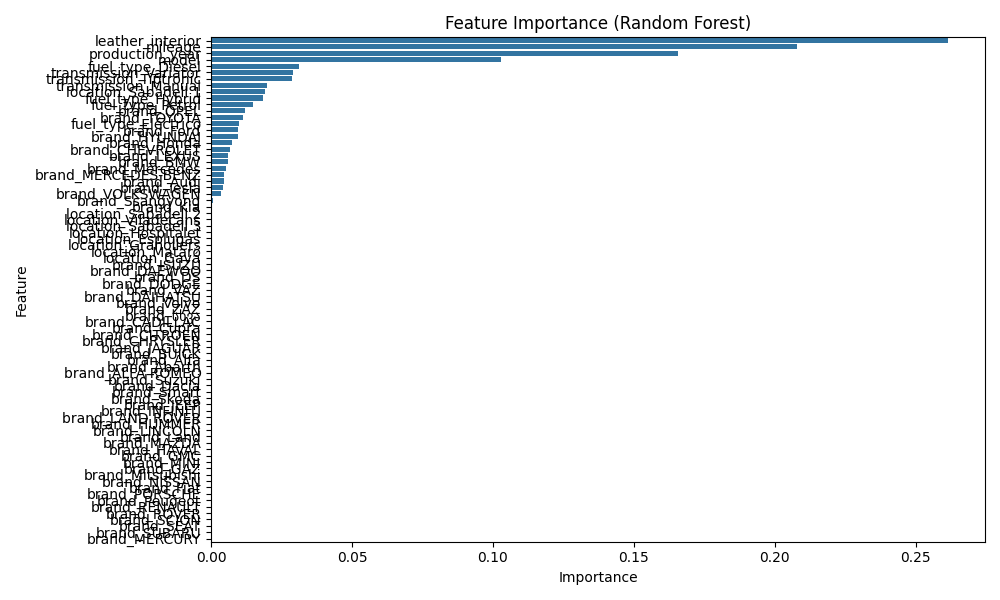
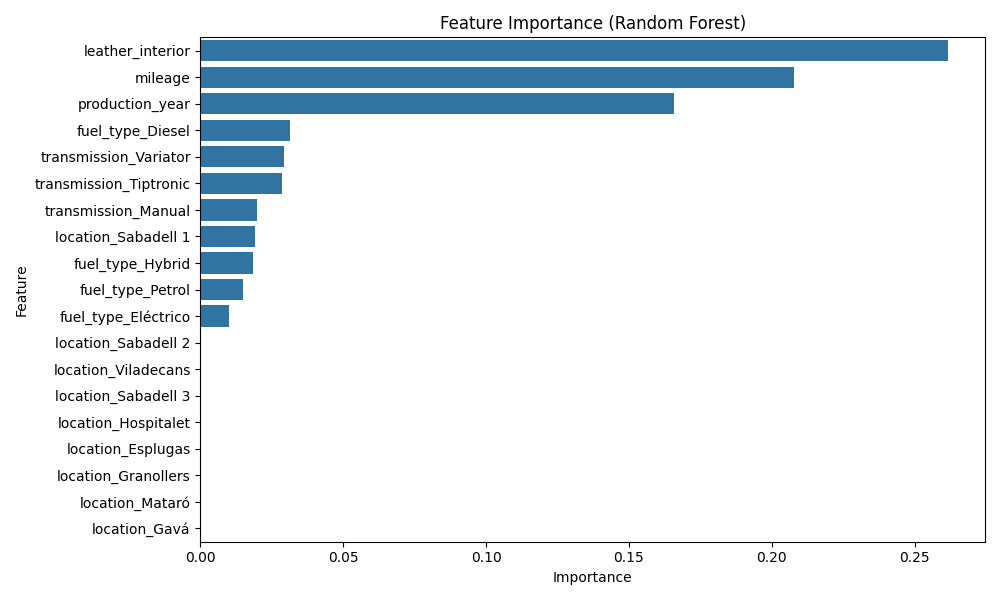
updated some logic

diff --git a/python/startAnalysis.py b/python/startAnalysis.py
@@ -1,15 +1,15 @@
 # startAnalysis.py
 # Script for car price prediction and market analysis using regression models
-# Generates model comparisons, top car lists, and visualizations
+# Generates model comparisons, top car lists, visualizations, and confusion matrix for KNN classification
 
 import pandas as pd
 import numpy as np
-from sklearn.model_selection import train_test_split, GridSearchCV
+from sklearn.model_selection import train_test_split, GridSearchCV, cross_val_score
 from sklearn.ensemble import RandomForestRegressor
-from sklearn.neighbors import KNeighborsRegressor
+from sklearn.neighbors import KNeighborsRegressor, KNeighborsClassifier
 from sklearn.linear_model import LinearRegression
 from sklearn.preprocessing import StandardScaler
-from sklearn.metrics import mean_absolute_error, mean_squared_error, r2_score
+from sklearn.metrics import mean_absolute_error, mean_squared_error, r2_score, confusion_matrix, accuracy_score
 import matplotlib.pyplot as plt
 import seaborn as sns
 from db_connection import sqlalchemy_engine  # Assumes you have a module for DB connection
@@ -20,25 +20,26 @@ np.random.seed(42)
 # 1. Load data from PostgreSQL
 print("Loading data from database...")
 query = """
-        SELECT f.price, \
-               b.brand, \
-               f.model, \
-               y.production_year, \
-               a.mileage, \
-               ft.fuel_type, \
-               t.transmission, \
-               li.leather_interior, \
-               l.location, \
-               f.source_table
-        FROM main.fact_car_prices f
-                 JOIN main.dim_brands b ON f.brand_id = b.id
-                 JOIN main.dim_year y ON f.year_id = y.year_id
-                 JOIN main.dim_additional_info a ON f.additional_id = a.additional_id
-                 JOIN main.dim_fuel_types ft ON f.fuel_type_id = ft.id
-                 JOIN main.dim_transmissions t ON f.transmission_id = t.id
-                 LEFT JOIN main.fact_leather_interior li ON f.id = li.car_price_id
-                 LEFT JOIN main.fact_locations l ON f.id = l.car_price_id; \
-        """
+SELECT
+    f.price,
+    b.brand,
+    f.model,
+    y.production_year,
+    a.mileage,
+    ft.fuel_type,
+    t.transmission,
+    li.leather_interior,
+    l.location,
+    f.source_table
+FROM main.fact_car_prices f
+JOIN main.dim_brands b ON f.brand_id = b.id
+JOIN main.dim_year y ON f.year_id = y.year_id
+JOIN main.dim_additional_info a ON f.additional_id = a.additional_id
+JOIN main.dim_fuel_types ft ON f.fuel_type_id = ft.id
+JOIN main.dim_transmissions t ON f.transmission_id = t.id
+LEFT JOIN main.fact_leather_interior li ON f.id = li.car_price_id
+LEFT JOIN main.fact_locations l ON f.id = l.car_price_id;
+"""
 df = pd.read_sql(query, sqlalchemy_engine)
 
 # Print first 5 rows and data info for debugging
@@ -51,21 +52,21 @@ print(df.info())
 print("Cleaning data...")
 # Handle missing values
 df['mileage'] = df['mileage'].fillna(df['mileage'].mean())
-df['leather_interior'] = df['leather_interior'].astype(bool).fillna(False)  # Explicitly cast to bool
+df['leather_interior'] = df['leather_interior'].astype(bool).fillna(False)
 df['location'] = df['location'].fillna(df['location'].mode()[0])
 df['fuel_type'] = df['fuel_type'].fillna(df['fuel_type'].mode()[0])
 df['transmission'] = df['transmission'].fillna(df['transmission'].mode()[0])
 df['model'] = df['model'].fillna(df['model'].mode()[0])
-df['price'] = df['price'].fillna(df['price'].mean())  # Handle missing prices
+df['price'] = df['price'].fillna(df['price'].mean())
 
 # Remove outliers
-df = df[(df['price'] > 100) & (df['price'] < 100000)]  # Reasonable price range
-df = df[df['mileage'] < 1000000]  # Reasonable mileage
-df = df[df['production_year'] > 1980]  # Reasonable year
+df = df[(df['price'] > 100) & (df['price'] < 100000)]
+df = df[df['mileage'] < 1000000]
+df = df[df['production_year'] > 1980]
 
 # Convert prices to USD based on source_table
 print("Converting prices to USD...")
-df.loc[df['source_table'] == 'prediction3', 'price'] = df['price'] * 1.1  # EUR to USD for prediction3
+df.loc[df['source_table'] == 'prediction3', 'price'] = df['price'] * 1.1
 
 # 3. Feature encoding for training
 print("Encoding features for training...")
@@ -97,8 +98,17 @@ X[numerical_cols] = scaler.fit_transform(X[numerical_cols])
 # Split data into train and test sets
 X_train, X_test, y_train, y_test = train_test_split(X, y, test_size=0.2, random_state=42)
 
-# 5. Model training and evaluation
-print("Training models...")
+# 4.1. Prepare data for classification (discretize prices)
+print("Preparing data for KNN classification...")
+# Discretize prices into categories: Low (<10,000), Medium (10,000-30,000), High (>30,000)
+bins = [0, 10000, 30000, float('inf')]
+labels = ['Low', 'Medium', 'High']
+y_class = pd.cut(y, bins=bins, labels=labels, include_lowest=True)
+y_train_class = pd.cut(y_train, bins=bins, labels=labels, include_lowest=True)
+y_test_class = pd.cut(y_test, bins=bins, labels=labels, include_lowest=True)
+
+# 5. Model training and evaluation (Regression)
+print("Training regression models...")
 models = {
     'Random Forest': RandomForestRegressor(random_state=42),
     'KNN': KNeighborsRegressor(),
@@ -116,7 +126,7 @@ param_grids = {
         'n_neighbors': [3, 5, 7],
         'weights': ['uniform', 'distance']
     },
-    'Linear Regression': {}  # No parameters to tune
+    'Linear Regression': {}
 }
 
 # Store results
@@ -133,26 +143,37 @@ for name, model in models.items():
         best_model = model
         best_model.fit(X_train, y_train)
 
-    # Predictions
+    # Predictions on test set
     y_pred = best_model.predict(X_test)
 
-    # Metrics
+    # Metrics on test set
     mae = mean_absolute_error(y_test, y_pred)
     rmse = np.sqrt(mean_squared_error(y_test, y_pred))
     r2 = r2_score(y_test, y_pred)
 
+    # Cross-validation
+    print(f"Performing cross-validation for {name}...")
+    cv_mae = -cross_val_score(best_model, X, y, cv=5, scoring='neg_mean_absolute_error', n_jobs=-1).mean()
+    cv_rmse = np.sqrt(-cross_val_score(best_model, X, y, cv=5, scoring='neg_mean_squared_error', n_jobs=-1).mean())
+    cv_r2 = cross_val_score(best_model, X, y, cv=5, scoring='r2', n_jobs=-1).mean()
+
     results.append({
         'Model': name,
-        'MAE': mae,
-        'RMSE': rmse,
-        'R²': r2
+        'Test MAE': mae,
+        'Test RMSE': rmse,
+        'Test R²': r2,
+        'CV MAE': cv_mae,
+        'CV RMSE': cv_rmse,
+        'CV R²': cv_r2
     })
 
     # Feature importance for Random Forest
     if name == 'Random Forest':
         importance = pd.Series(best_model.feature_importances_, index=X.columns).sort_values(ascending=False)
+        selected_features = [col for col in importance.index if not col.startswith('brand_') and col != 'model']
+        filtered_importance = importance[selected_features]
         plt.figure(figsize=(10, 6))
-        sns.barplot(x=importance.values, y=importance.index)
+        sns.barplot(x=filtered_importance.values, y=filtered_importance.index)
         plt.title('Feature Importance (Random Forest)')
         plt.xlabel('Importance')
         plt.ylabel('Feature')
@@ -160,7 +181,34 @@ for name, model in models.items():
         plt.savefig('feature_importance.png')
         plt.close()
 
-# 6. Compare models
+# 5.1. KNN Classification
+print("Training KNN classifier...")
+knn_classifier = KNeighborsClassifier()
+param_grid_knn = {
+    'n_neighbors': [3, 5, 7],
+    'weights': ['uniform', 'distance']
+}
+grid_knn = GridSearchCV(knn_classifier, param_grid_knn, cv=5, scoring='accuracy', n_jobs=-1)
+grid_knn.fit(X_train, y_train_class)
+best_knn_classifier = grid_knn.best_estimator_
+print(f"Best parameters for KNN Classifier: {grid_knn.best_params_}")
+
+# Predictions and confusion matrix
+y_pred_class = best_knn_classifier.predict(X_test)
+cm = confusion_matrix(y_test_class, y_pred_class, labels=labels)
+accuracy = accuracy_score(y_test_class, y_pred_class)
+
+# Plot confusion matrix
+plt.figure(figsize=(8, 6))
+sns.heatmap(cm, annot=True, fmt='d', cmap='Blues', xticklabels=labels, yticklabels=labels)
+plt.title(f'KNN Confusion Matrix (Accuracy: {accuracy:.2f})')
+plt.xlabel('Predicted')
+plt.ylabel('Actual')
+plt.tight_layout()
+plt.savefig('knn_confusion_matrix.png')
+plt.close()
+
+# 6. Compare regression models
 print("\nModel Comparison:")
 results_df = pd.DataFrame(results)
 print(results_df)
@@ -171,19 +219,18 @@ print("Model comparison saved to 'model_comparison.csv'")
 
 # 7. Predict prices for top lists (using Random Forest)
 print("Predicting prices for top lists...")
-# Create full feature set for prediction (without filtering models)
 df_full_encoded = pd.get_dummies(df, columns=categorical_cols, drop_first=True)
 df_full_encoded['model'] = df_full_encoded['model'].astype('category').cat.codes
 df_full_encoded['leather_interior'] = df_full_encoded['leather_interior'].astype(int)
 df_full_encoded = df_full_encoded.drop(columns=['source_table'])
 
-# Ensure columns match X (used for training)
+# Ensure columns match X
 missing_cols = [col for col in X.columns if col not in df_full_encoded.columns]
 for col in missing_cols:
     df_full_encoded[col] = 0
-df_full_encoded = df_full_encoded[X.columns]  # Reorder columns to match X
+df_full_encoded = df_full_encoded[X.columns]
 
-# Standardize numerical features for full dataset
+# Standardize numerical features
 df_full_encoded[numerical_cols] = scaler.transform(df_full_encoded[numerical_cols])
 
 # Predict prices
@@ -192,30 +239,25 @@ df['predicted_price'] = rf_model.predict(df_full_encoded)
 
 # 8. Create top lists
 print("Creating top lists...")
-# Budget Top (price < 10,000 USD, year > 2010, mileage < 150,000 km)
 budget_top = df[
     (df['price'] < 10000) &
     (df['production_year'] > 2010) &
     (df['mileage'] < 150000)
-    ][['brand', 'model', 'production_year', 'mileage', 'price', 'fuel_type']].head(5)
+][['brand', 'model', 'production_year', 'mileage', 'price', 'fuel_type']].head(5)
 
-# Premium Top (price > 30,000 USD, year > 2018, leather_interior = True)
 premium_top = df[
     (df['price'] > 30000) &
     (df['production_year'] > 2018) &
     (df['leather_interior'] == True)
-    ][['brand', 'model', 'production_year', 'mileage', 'price', 'fuel_type']].head(5)
+][['brand', 'model', 'production_year', 'mileage', 'price', 'fuel_type']].head(5)
 
-# Economic Top (Hybrid/Electric, mileage < 100,000 km)
 economic_top = df[
     (df['fuel_type'].isin(['Hybrid', 'Electric'])) &
     (df['mileage'] < 100000)
-    ][['brand', 'model', 'production_year', 'mileage', 'price', 'fuel_type']].head(5)
+][['brand', 'model', 'production_year', 'mileage', 'price', 'fuel_type']].head(5)
 
-# Price/Quality Top (largest negative difference: price - predicted_price)
 df['price_diff'] = df['price'] - df['predicted_price']
-price_quality_top = df.sort_values('price_diff')[
-    ['brand', 'model', 'production_year', 'mileage', 'price', 'fuel_type']].head(5)
+price_quality_top = df.sort_values('price_diff')[['brand', 'model', 'production_year', 'mileage', 'price', 'fuel_type']].head(5)
 
 # Save tops to CSV
 budget_top.to_csv('budget_top.csv', index=False)
@@ -225,7 +267,6 @@ price_quality_top.to_csv('price_quality_top.csv', index=False)
 
 # 9. Visualizations
 print("Generating visualizations...")
-# Predicted vs Actual Prices
 plt.figure(figsize=(8, 6))
 plt.scatter(y_test, rf_model.predict(X_test), alpha=0.5)
 plt.plot([y_test.min(), y_test.max()], [y_test.min(), y_test.max()], 'r--')
@@ -236,7 +277,6 @@ plt.tight_layout()
 plt.savefig('predicted_vs_actual.png')
 plt.close()
 
-# Price distribution by fuel type
 plt.figure(figsize=(10, 6))
 sns.boxplot(x='fuel_type', y='price', data=df)
 plt.title('Price Distribution by Fuel Type')

diff --git a/workWithZvit/forZvit.py b/workWithZvit/forZvit.py
@@ -1,0 +1,26 @@
+import pandas as pd
+from sqlalchemy import create_engine
+
+# Replace with your actual PostgreSQL connection string.
+connection_string = "postgresql://postgres:09864542@localhost:5433/data_analysis"
+engine = create_engine(connection_string)
+
+# Read data from the fact_car_prices table
+df = pd.read_sql("SELECT * FROM main.fact_car_prices", engine)
+
+# Display dataframe info to check data types and non-null counts
+print("DataFrame Info:")
+print(df.info())
+
+# Check for null values in each column
+print("\nNon-Null Value Counts:")
+print(df.notnull().sum())
+
+# Print data types of columns
+print("\nData Types:")
+print(df.dtypes)
+
+
+print(df['source_table'].value_counts())
+
+
